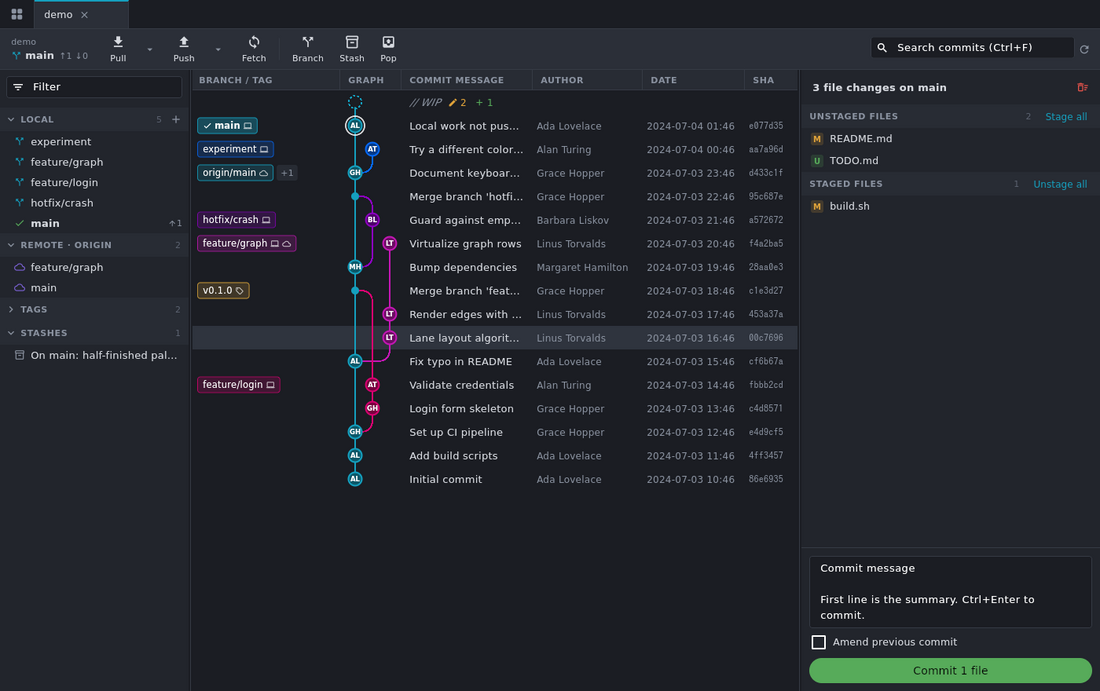
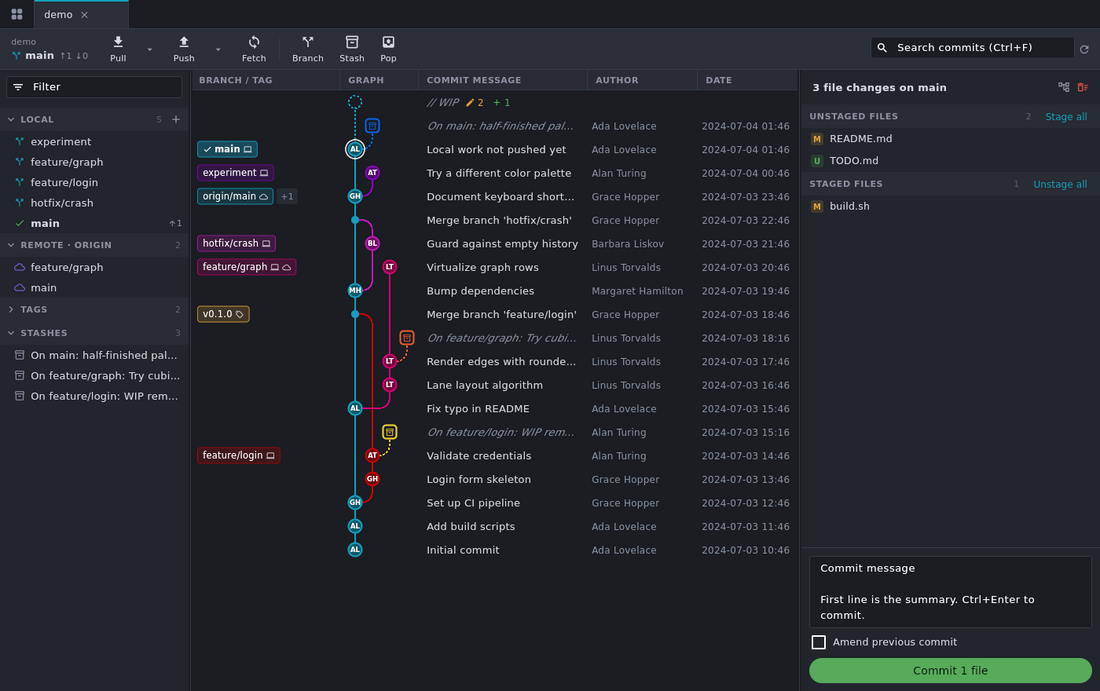
Update README screenshots
- New graph shot with stashes (dotted lines) and the dotted WIP line
- Home tab (logo, version, update button, repositories, settings)
- Diff with syntax highlighting

diff --git a/README.md b/README.md
@@ -24,18 +24,26 @@ fetch/push.
 - **Repository discovery**: pick a folder and every git repository under
   it (including nested ones) is found in the background. You can also
   open, clone or init repositories directly.
+
+  ![Home tab](docs/dashboard.png)
+
 - **Staging**: stage, unstage or discard whole files, single hunks, or
   selected lines (click the line-number gutter; shift-click selects a
   range).
 
   ![Line staging](docs/line-staging.png)
 
-- **Diffs**: unified or split view, plus a full-file preview (images too).
+- **Diffs**: unified or split view, plus a full-file preview (images too),
+  with optional syntax highlighting for about 40 languages.
+
+  ![Diff with syntax highlighting](docs/diff-highlight.png)
+
 - **Branches and history**: checkout (including remote branches as
   tracking branches), create, rename and delete branches, tags, merge
   (ff / no-ff / ff-only / squash), rebase, cherry-pick, revert,
   reset (soft / mixed / hard), stash, pull (ff-only / merge / rebase),
-  push (sets the upstream automatically; force-with-lease is available).
+  push (sets the upstream automatically; if the remote rejects it, Gutter
+  offers a force push with lease).
 - **Interactive rebase**: reorder, pick, reword, edit, squash, fixup
   and drop, all without a text editor.
 
